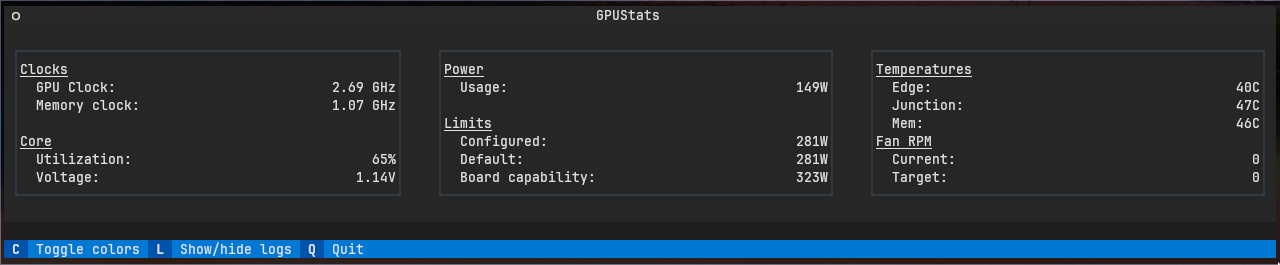
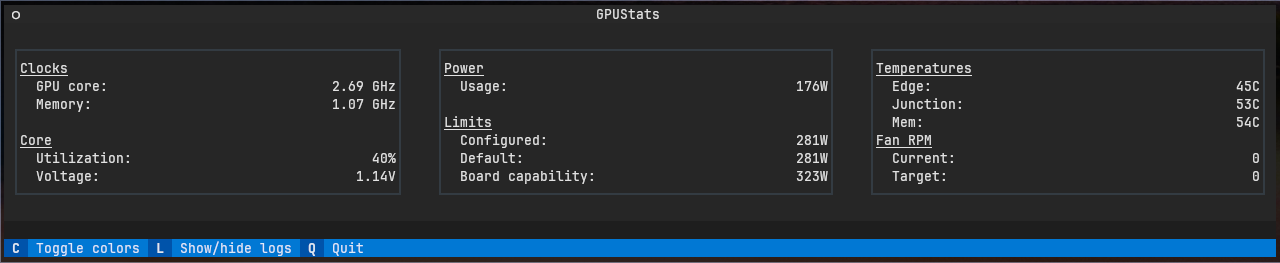
adjust clock labels slightly, -repetition

diff --git a/gpustats.py b/gpustats.py
@@ -220,9 +220,9 @@ class ClockDisplay(Static):
     def compose(self) -> ComposeResult:
         yield Horizontal(Label("[underline]Clocks"),
                          Label("", classes="statvalue"))
-        yield Horizontal(Label("  GPU Clock:",),
+        yield Horizontal(Label("  GPU core:",),
                          Label("", id="clk_core_val", classes="statvalue"))
-        yield Horizontal(Label("  Memory clock:"),
+        yield Horizontal(Label("  Memory:"),
                          Label("", id="clk_memory_val", classes="statvalue"))
         yield Horizontal(Label(""), Label("", classes="statvalue"))  # padding to split groups
         yield Horizontal(Label("[underline]Core"),
